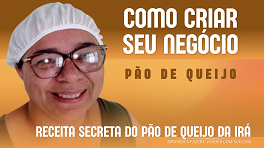
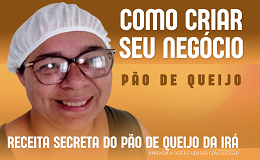
update

Changed region(s): [[0.0, 0.0, 0.9538, 0.973], [0.4615, 0.4324, 0.9538, 0.5676], [0.0, 0.3514, 0.0308, 0.4324]]

diff --git a/index.html b/index.html
@@ -24,6 +24,8 @@
     <link rel="shortcut icon" type="image/x-icon" href="/img/favicon.ico" />
     <link rel="mask-icon" href="/img/favicon.ico" />
     <link rel="stylesheet" href="/css/style.css" />
+    <link rel="preload" href="styles.css" as="style" onload="this.onload=null;this.rel='stylesheet'">
+<noscript><link rel="stylesheet" href="styles.css"></noscript>
     <link rel="preconnect" href="https://fonts.gstatic.com" crossorigin>
     <link
         href="https://fonts.googleapis.com/css2?family=Inter:ital,opsz,wght@0,14..32,100..900;1,14..32,100..900&family=Lobster&family=Roboto:ital,wght@0,100..900;1,100..900&display=swap"
@@ -270,10 +272,9 @@
             </span><br>
         </div>
         <div class="rodape-img">
-            <a href="https://hotm.art/VxrpAOwD" aria-label="curso-hotmart-receita-secreta-do-pao-de-queijo-da-ira"
-                target="_blank" aria-label="Curso Online Receita Secreta do Pão de Queijo da Irá"><img
-                    src="/img/criar-negocio.webp" alt="curso-hotmart-receita-secreta-do-pao-de-queijo-da-ira"
-                    width="264px" height="168px" /></a><br>
+            <a href="https://hotm.art/VxrpAOwD" target="_blank" aria-label="Curso Online Receita Secreta do Pão de Queijo da Irá"><img
+                    src="/img/criar-negocio.webp" alt="Curso Online Receita Secreta do Pão de Queijo da Irá"
+                    width="264px" height="160px" /></a><br>
         </div>
         <div class="rodape-text">
             <p tabindex="0"><a href="https://github.com/SjrPovoas" target="_blank"

diff --git a/css/style.css b/css/style.css
@@ -298,13 +298,13 @@ section .header {
 }
 .headline h2 {
     font-family: 'Lobster', cursive;
-    font-weight: 800;
+    font-weight: 600;
     font-size: 50px;
     text-align: center;
-    color: #f0b256;
+    color: #643511;
     width: 100%;
     -webkit-text-stroke-width: 0.5px; /* largura da borda */
-    -webkit-text-stroke-color: #643511; /* cor da borda */
+    -webkit-text-stroke-color: #643511; /* cor da borda #f0b256;*/
 }
 .headline figcaption p {
     font-family: 'Roboto', sans-serif;
